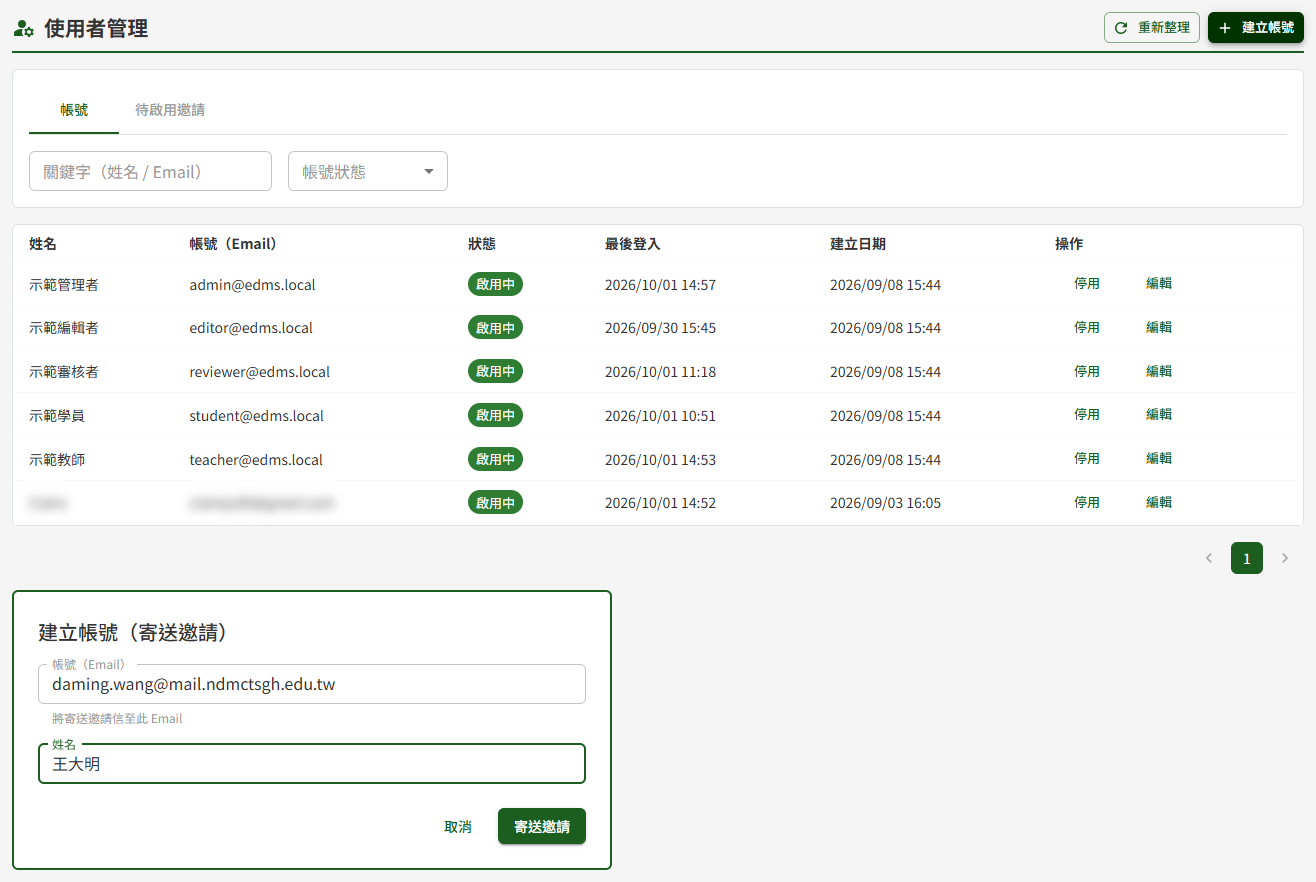
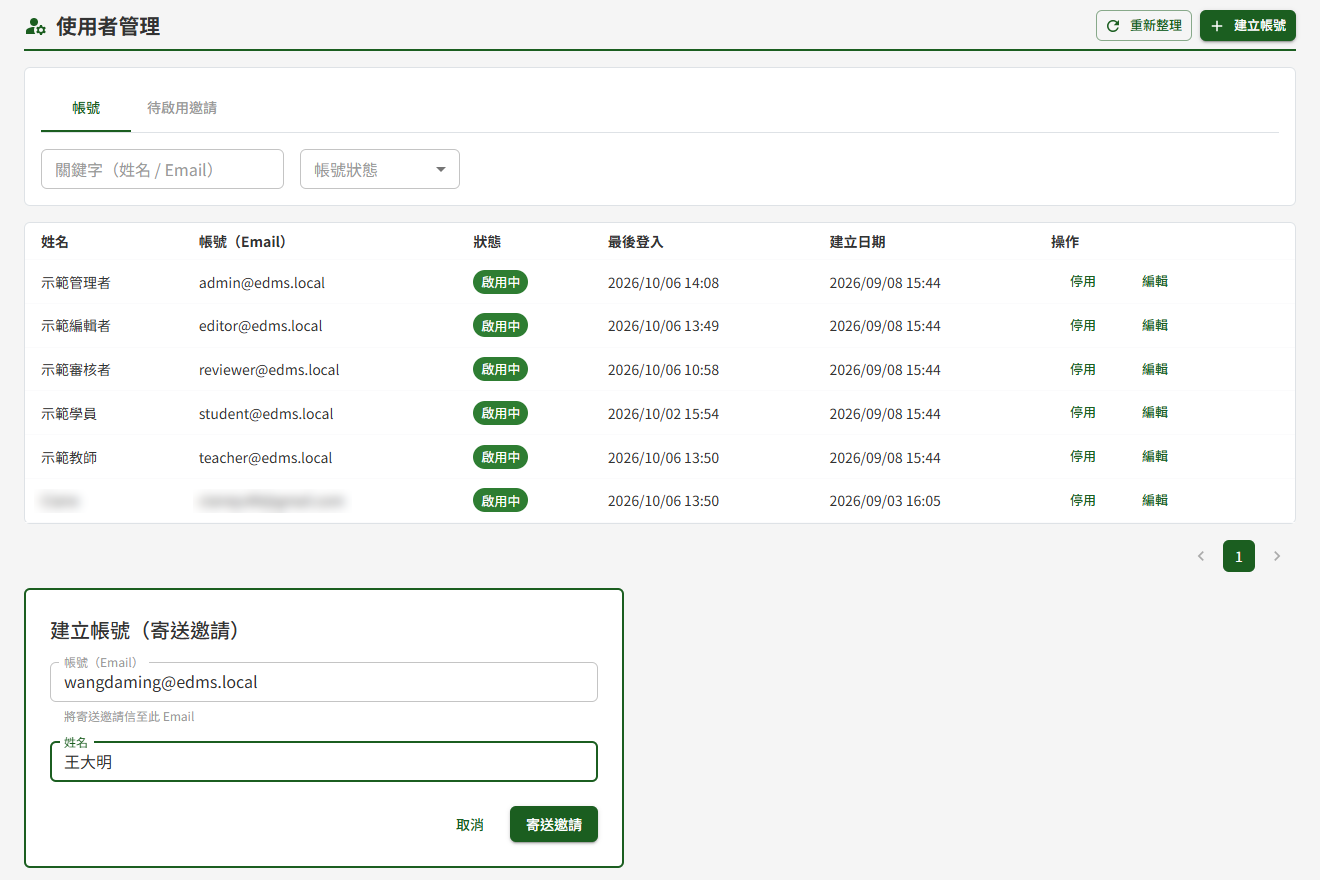
docs(manuals): DP01／DP02 依現行行為修正並遮罩個資，DP06 改台灣時間並接圖
- DP01：補救方式改為由其他管理者啟用；補閒置停用帳號啟用後須盡快登入；邀請效期寫明參數名稱
- DP02：刪除畫面上做不到的「撤除最後一名管理者」；補新增標籤即時加入課程；移除進入路徑之權限擋板
- DP06：依 #524 改為台灣時間；補「確定儲存」確認視窗；接圖 4 張
- 圖片：dp02 四張遮罩「最後異動」之真實姓名；dp01-03／04 改用示範網域重拍
- 重產 DP 測試報告

diff --git a/docs/manuals/_tests/DP-平台管理模組.md b/docs/manuals/_tests/DP-平台管理模組.md
@@ -11,11 +11,11 @@
 | 可收信的 Email | 一個**尚未在系統中使用過**且測試當下收得到信的 Email，用於建立帳號與完成啟用（第 5～9 項）；收不到信則整段啟用流程驗不到 |
 | 已存在之帳號 | 一個已完成啟用的帳號，用於驗證 Email 重複（第 10 項）與編輯姓名（第 23、24 項） |
 | 已停用之帳號 | 一個狀態為「已停用」的帳號，用於驗證啟用（第 18 項）。可先以第 16 項停用一個帳號取得 |
-| 鎖定中之帳號 | 以某帳號連續輸入錯誤密碼至被鎖定（失敗次數上限為系統參數，可於 DP03 系統參數與清單維護查得），用於驗證解鎖（第 21 項） |
-| 已逾期之邀請 | 一筆邀請狀態為「已逾期」者（第 15 項）。邀請效期為系統參數，建議測試前於 DP03 暫時調短效期取得，測畢再調回 |
+| 鎖定中之帳號 | 以某帳號連續輸入錯誤密碼至被鎖定（失敗次數上限為系統參數，可於 DP03 系統參數與清單維護查得），用於驗證解鎖（第 21 項）。第 22 項需等鎖定期滿，鎖定時間為 DP03 的「帳號鎖定時間（分鐘）」，預設 30 分鐘 |
+| 已逾期之邀請 | 一筆邀請狀態為「已逾期」者（第 15 項）。邀請效期即 DP03 的「密碼重設連結有效時間（分鐘）」，預設 30 分鐘，寄出邀請後等候逾時即可取得（調短此參數會一併影響忘記密碼連結，不建議） |
 | 跨模組驗證用環境 | 受測使用者需在教育訓練或文件管理至少有一個可操作的頁面，用於驗證停用後即時失效（第 17 項） |
 | 兩個瀏覽器或兩台裝置 | 第 17 項需一邊以管理者停用、另一邊以該使用者操作，確認是否立即被拒 |
-| 僅剩一名管理者之模組 | 第 20 項需停用某模組的最後一名管理者。**測畢請立即按「啟用」恢復**，否則該模組將無人可做管理作業、須由資訊人員自資料庫處理 |
+| 因閒置被停用之帳號 | 第 19 項需一個由每日排程因閒置自動停用的帳號：測試前一日於 DP03 將「閒置停用天數（天）」暫調為 1，取一個已超過 1 天未登入的帳號，待次日每日排程（台灣時間 08:00）將其停用；測畢將參數調回原值（預設 90） |
 
 ### 測試項目清單
 
@@ -39,8 +39,8 @@
 | 16 | 對一個啟用中的帳號按「停用」並確認，該列狀態應變為「已停用」，按鈕改為「啟用」。 |
 | 17 | 承上，該使用者於教育訓練或文件管理的下一個操作應即被拒絕，不需等待其登出。 |
 | 18 | 對已停用的帳號按「啟用」，狀態應恢復為「啟用中」，該使用者可再次登入。 |
-| 19 | 對目前登入中的本人帳號按「停用」，應被擋下並提示無法停用自己的帳號。 |
-| 20 | 停用某模組的最後一名管理者，系統應允許（不檢核至少保留一名管理者）；測畢立即按「啟用」恢復。 |
+| 19 | 對因閒置被排程停用之帳號按「啟用」但不登入，次日每日排程執行後，該帳號應再次變為已停用。 |
+| 20 | 對目前登入中的本人帳號按「停用」，應被擋下並提示無法停用自己的帳號。 |
 | 21 | 對鎖定中的帳號按「解鎖」，狀態應恢復為「啟用中」，該使用者可立即以正確密碼登入。 |
 | 22 | 鎖定期滿後重新查詢該帳號，狀態應已自動恢復為「啟用中」，不需人工解鎖。 |
 | 23 | 對某帳號按「編輯」，「帳號（Email）」欄位應為唯讀不可輸入，僅「姓名」可修改。 |
@@ -54,12 +54,12 @@
 |---|---|
 | 管理者帳號（兩模組） | 同時具教育訓練與文件管理管理者身分，本作業絕大多數項目以此帳號操作；兩個分頁都要看得到才測得到第 1 項 |
 | 管理者帳號（單一模組） | 只具其中一個模組管理者身分者，用於驗證分頁只列出可管理的模組（第 1 項）；兩個帳號都是雙模組管理者時這項驗不到 |
-| 受指派的一般使用者 | 一個啟用中、角色可自由增減的帳號，用於第 4～9 項。請勿使用測試者本人的帳號，否則會與第 6 項「不可取消本人角色」的檢核混淆 |
-| 已停用之帳號 | 一個狀態為「已停用」且**已持有至少一個角色**的帳號（第 4 項要驗「連撤除方向也不可操作」，沒有既有角色就驗不到）。可於 DP01 使用者管理停用取得 |
+| 受指派的一般使用者 | 一個啟用中、具學員角色、角色可自由增減的帳號，用於第 4、6、7、12 項。請勿使用測試者本人的帳號，否則會與第 5 項「不可取消本人角色」的檢核混淆 |
+| 已停用之帳號 | 一個狀態為「已停用」且**已持有至少一個角色**的帳號（第 3 項要驗「已持有的角色同樣無法取消」，沒有既有角色就驗不到）。可於 DP01 使用者管理停用取得 |
 | 可見對象選項 | DP03 系統參數與清單維護中，文件管理的「單位」與「職位」各至少 2 項且為啟用中 |
 | 受訓單位標籤選項 | DP03 中教育訓練的受訓單位標籤至少 2 項且為啟用中 |
-| 僅剩一名管理者之模組 | 第 8 項需撤除某模組最後一名管理者。**測畢請立即指派回去**，否則該模組將無人可指派權限、須由資訊人員自資料庫恢復 |
-| 可登入的受測帳號 | 第 9 項需以被指派者的身分登入確認功能已開通，故需知道該帳號的密碼或可重設 |
+| 掛標籤之已發布課程 | 一門已發布、未關閉且掛有受訓單位標籤甲之課程；受指派的一般使用者尚未加入該課程、也未持有標籤甲（第 12 項）。該使用者不得為該課程的建立者 |
+| 可登入的受測帳號 | 第 7、12 項需以被指派者的身分登入確認，故需知道該帳號的密碼或可重設 |
 
 ### 測試項目清單
 
@@ -67,18 +67,16 @@
 |---|---|
 | 1 | 以僅具單一模組管理者身分的帳號進入本作業，應只看到該模組的分頁；具兩模組管理者身分者應看到兩個分頁。 |
 | 2 | 於「關鍵字（姓名 / Email）」輸入後清單不應自動更新，按「查詢」或 Enter 後才套用篩選。 |
-| 3 | 教育訓練分頁的角色欄為「管理者／教師／學員」，文件管理分頁為「管理者／編輯者／審核者／閱覽者」。 |
-| 4 | 已停用帳號該列應標示「已停用」，其角色核取方塊與「編輯」皆不可操作——**連已持有的角色也不可撤除**。 |
-| 5 | 勾選某使用者的一個角色，畫面應顯示「角色 / 標籤已更新並即時生效」，且無須另按儲存；重新查詢後該勾選仍在。 |
-| 6 | 對自己目前登入的帳號取消管理者角色，應被擋下並提示無法取消自己的管理者角色。 |
-| 7 | 對同一使用者同時勾選兩個以上角色，應全部可並存（權限取聯集）。 |
-| 8 | 撤除某模組最後一名管理者的管理者角色，系統應允許（不檢核至少保留一名）；測畢立即指派回去。 |
-| 9 | 為某使用者勾選文件管理的閱覽者後，以該帳號登入應可進入文件管理的功能，不需重新指派或等待。 |
-| 10 | 於文件管理分頁按「編輯」，新增一組「單位 + 職位」並儲存，該列的可見對象欄應顯示該組配對。 |
-| 11 | 新增一列但只選「單位」未選「職位」，視窗應先提示未選完的列將被略過，儲存後該列不應出現在可見對象欄。 |
-| 12 | 移除一組既有的可見對象並儲存，該組應自欄位消失，其餘組別不受影響。 |
-| 13 | 於教育訓練分頁按「編輯」，勾選兩個受訓單位標籤並儲存，該列的受訓單位標籤欄應同時顯示兩者。 |
-| 14 | 教育訓練的群組編輯視窗應為可複選的標籤清單，不出現「單位」「職位」兩個下拉（兩個模組的授權形狀不同）。 |
+| 3 | 於文件管理分頁查詢已停用帳號，該列應標示「已停用」，其角色核取方塊與「編輯」皆不可操作——**連已持有的角色也不可取消**。 |
+| 4 | 勾選某使用者的一個角色，畫面應顯示「角色 / 標籤已更新並即時生效」，且無須另按儲存；重新查詢後該勾選仍在。 |
+| 5 | 對自己目前登入的帳號取消管理者角色，應被擋下並提示無法取消自己的管理者角色。 |
+| 6 | 對同一使用者同時勾選兩個以上角色，應全部可並存（權限取聯集）。 |
+| 7 | 為某使用者勾選文件管理的閱覽者後，以該帳號登入應可進入文件管理的功能，不需重新指派或等待。 |
+| 8 | 於文件管理分頁按「編輯」，新增一組「單位 + 職位」並儲存，該列的可見對象欄應顯示該組配對。 |
+| 9 | 新增一列但只選「單位」未選「職位」，視窗應先提示未選完的列將被略過，儲存後該列不應出現在可見對象欄。 |
+| 10 | 移除一組既有的可見對象並儲存，該組應自欄位消失，其餘組別不受影響。 |
+| 11 | 於教育訓練分頁按「編輯」，勾選兩個受訓單位標籤並儲存，該列的受訓單位標籤欄應同時顯示兩者。 |
+| 12 | 為受指派的一般使用者新增受訓單位標籤甲並儲存，該員應立即出現在掛標籤甲之已發布課程的學員清單中，並收到一封列出該課程的通知信。 |
 
 ## DP06 排程作業總覽
 
@@ -89,21 +87,20 @@
 | 管理者帳號 | 具教育訓練或文件管理任一模組之管理者角色即可（本作業為兩模組共用項） |
 | 已有執行紀錄之排程 | 至少一支排程已執行過數次（第 5 項要看歷程）。系統內建的每日排程通常已有紀錄，可先於清單的「最近執行」欄確認非空白 |
 | 可供調整的排程 | 挑一支**調整後影響最小**的排程做第 6～9 項。這些項目會真的改變該作業的執行時間與啟停，**每項測畢請立即改回原值**；建議事先記下原本的 Cron 表達式與啟用狀態 |
-| 時區對照 | 第 3 項需比對 UTC 與本地時間，測試前先確認本地時區為 UTC+8 |
 
 ### 測試項目清單
 
 | 項次 | 測試內容 |
 |---|---|
 | 1 | 進入本作業，清單應列出各排程的 Job、說明、所屬模組、執行時點、Cron、狀態、最近執行、下次執行。 |
-| 2 | 「執行時點」欄應為 Cron 換算出的中文時點並標示 UTC，例如 Cron 為 `0 8 * * *` 時顯示「每日 08:00 UTC」。 |
-| 3 | 同一列的「執行時點」（UTC）與「下次執行」（本地時間）應相差八小時，兩者皆非空白。 |
+| 2 | 「執行時點（台灣時間）」欄應為 Cron 換算出的中文時點，例如 Cron 為 `0 8 * * *` 時顯示「每日 08:00」。 |
+| 3 | Cron 為 `0 8 * * *` 之排程，「下次執行」應為某日 08:00，與「執行時點」所示時刻一致（Cron 以台灣時間解讀）。 |
 | 4 | 按某列的「執行歷程」圖示，應開啟視窗列出歷次執行的起訖時間與結果；從未執行過者顯示「尚無排程執行紀錄」。 |
 | 5 | 執行歷程中若有失敗或跳過的紀錄，右欄應列出其原因；同時段其他排程的紀錄應仍為成功（單一失敗不影響其他）。 |
 | 6 | 按「編輯」修改 Cron 表達式並儲存，清單的「執行時點」與「下次執行」應立即依新值更新，不需重新啟動或重新登入。 |
 | 7 | 於 Cron 的週幾欄填 `0` 並儲存，「執行時點」應顯示為**每週一**（週幾自週一起算，非一般慣用的週日為 0）。 |
 | 8 | 於 Cron 填入不合法的表達式（例如週幾填 `7`）並儲存，應被擋下並提示 cron 表達式不合法。 |
-| 9 | 將某排程的「啟用」關閉並儲存，該列狀態應變為停用且「下次執行」欄變空白；重新啟用後恢復顯示。 |
+| 9 | 將某排程的「啟用」關閉並儲存，該列狀態應變為停用且「下次執行」欄顯示「—」；重新啟用後恢復顯示。 |
 | 10 | 編輯卡片的「Job ID」欄應為灰色不可輸入，僅作業名稱、說明、Cron 表達式與啟用可修改。 |
 | 11 | 修改「說明」並儲存，清單該列的說明欄應更新；「執行時點」欄不受影響（兩者各自獨立）。 |
 | 12 | 清單每列的操作欄應只有「執行歷程」與「編輯」兩個入口，無任何手動補跑或立即執行的按鈕。 |

diff --git a/docs/manuals/dp/DP01-使用者管理.md b/docs/manuals/dp/DP01-使用者管理.md
@@ -10,7 +10,7 @@
 
 本作業涵蓋帳號的建立、查詢、停用與啟用、解鎖，以及姓名的維護；建立帳號採**寄送邀請信**的方式，由使用者自行設定密碼後啟用。
 
-角色與權限的指派不在本作業，於 DP02 權限管理處理。帳號啟用時系統先給予教育訓練的學員角色，其餘角色由管理者另行指派。
+角色與權限的指派於 DP02 權限管理處理。帳號啟用時系統先給予教育訓練的學員角色，其餘角色由管理者另行指派。
 
 ### 進入路徑
 
@@ -25,7 +25,7 @@
 | 頁籤 | 內容 |
 |---|---|
 | 帳號 | 已啟用使用的帳號，含已停用與鎖定中者 |
-| 待啟用邀請 | 已寄出邀請信、使用者尚未完成設定密碼者；頁籤上的數字為目前筆數，沒有待啟用邀請時不顯示數字 |
+| 待啟用邀請 | 已寄出邀請信、使用者尚未完成設定密碼者；切到本頁籤後，頁籤上顯示目前筆數 |
 
 「帳號」頁籤的清單逐列顯示姓名、帳號（Email）、狀態、最後登入、建立日期與操作按鈕。
 
@@ -35,7 +35,7 @@
 
 篩選列有「關鍵字（姓名 / Email）」與「帳號狀態」兩項。關鍵字輸入後**自動查詢**，不需另外按查詢鈕；帳號狀態可選全部、啟用中、已停用、已鎖定。
 
-> 注意：切換頁籤或變更篩選條件時，若正開著建立或編輯表單，該表單會一併收起，表單中尚未儲存的內容不會保留。
+> 注意：切換頁籤或變更篩選條件時，若正開著建立或編輯表單，該表單會一併收起，表單中尚未儲存的內容會被清除。
 
 **三種帳號狀態的差別**
 
@@ -66,9 +66,9 @@
 
 ![按「寄送邀請」後跳出確認視窗，複述即將寄出的 Email](../_images/dp/dp01-04.png)
 
-> 重要：**建立帳號時不設定密碼**，密碼由使用者自己設。送出後系統寄出一封邀請信，使用者點信中連結、於效期內設定密碼，帳號才正式建立並可登入。邀請信的效期由系統參數設定，於 DP03 系統參數與清單維護調整。
+> 重要：**密碼由使用者經邀請信連結自行設定**。送出後系統寄出一封邀請信，使用者點信中連結、於效期內設定密碼，帳號才正式建立並可登入。邀請信連結的效期即 DP03 系統參數與清單維護的「密碼重設連結有效時間（分鐘）」，預設 30 分鐘，與忘記密碼連結共用此設定。
 
-因此，剛送出邀請時**該筆出現在「待啟用邀請」頁籤、而不是「帳號」頁籤**；使用者完成設定密碼後才會轉到「帳號」頁籤、狀態為啟用中。
+因此，剛送出邀請時**該筆出現在「待啟用邀請」頁籤、而不是「帳號」頁籤**；使用者完成設定密碼後才會轉到「帳號」頁籤、狀態為啟用中，之後以該 Email 與自行設定的密碼直接登入使用。
 
 使用者完成啟用時，系統會給予教育訓練的學員角色；其他角色（例如教師、文件管理的審核者）於 DP02 權限管理指派。
 
@@ -104,11 +104,13 @@ Email 重複時會被擋下，兩種情況的處理方式不同：
 
 > 重要：停用**立即於兩個模組同時生效**。該使用者若正在線上，下一個動作就會被拒絕，不需等待登出。
 
-已停用的帳號，該列的按鈕會變為「啟用」，按下即恢復可登入（不另跳確認視窗）。帳號因閒置 90 天被系統自動停用者，同樣在此啟用。
+已停用的帳號，該列的按鈕會變為「啟用」，按下即恢復可登入。帳號因閒置 90 天被系統自動停用者，同樣在此啟用。
+
+> 重要：啟用因閒置被停用的帳號後，請通知該使用者**盡快登入一次**。系統以最後登入時間判定閒置，啟用本身不會更新此時間；使用者若在次日的每日排程前仍未登入，帳號會再次被自動停用。
 
 無法停用自己正在使用的帳號——這是避免管理者把自己鎖在系統外的保護。需要停用自己的帳號時，請其他管理者操作。
 
-> 注意：系統**不檢核「至少保留一名管理者」**。若某模組的管理者全被停用，該模組即無人可做管理作業，須由資訊人員自資料庫恢復。停用管理者帳號前請先確認該模組仍有其他管理者。
+> 注意：停用某模組唯一的管理者帳號後，該模組暫時無人可做管理作業，直到其他管理者於本作業按「啟用」恢復。停用管理者帳號前請先確認該模組仍有其他管理者。
 
 ### 解鎖帳號
 
@@ -124,7 +126,7 @@ Email 重複時會被擋下，兩種情況的處理方式不同：
 
 修改後按「儲存」，確認視窗核對無誤後按「確定儲存」。
 
-使用者要變更自己的 Email 時，請本人至 DP10 個人資料維護辦理——該流程需同時驗證新舊兩個信箱，管理者無法代為修改。
+使用者要變更自己的 Email 時，請本人至 DP10 個人資料維護辦理——該流程需同時驗證新舊兩個信箱，由本人完成。
 
 ## 常見訊息與處置
 
@@ -132,7 +134,7 @@ Email 重複時會被擋下，兩種情況的處理方式不同：
 
 | 訊息 | 處置 |
 |---|---|
-| 「此 Email 已被使用」 | 該 Email 已是現有帳號。於「帳號」頁籤查詢，確認是否只需啟用或解鎖 |
+| 「此 Email 已被使用」 | 該 Email 已是現有帳號。於「帳號」頁籤查詢，確認是否只需啟用或解鎖；兩個頁籤都查不到時，表示對方已自行註冊、尚未完成 Email 驗證，請其收信完成驗證 |
 | 「此 Email 已有待啟用邀請，請改用重寄」 | 到「待啟用邀請」頁籤對該筆按「重寄邀請」，不需重新建立 |
 | 「無法停用或鎖定自己的帳號」 | 此為保護機制，避免管理者將自身擋在系統外。需停用該帳號時請其他管理者操作 |
 | 「此邀請剛重寄過，請於約 N 分鐘後再試」 | 同一筆邀請的重寄間隔約 10 分鐘，依訊息所示時間後再試 |

diff --git a/docs/manuals/dp/DP06-排程作業總覽.md b/docs/manuals/dp/DP06-排程作業總覽.md
@@ -29,19 +29,19 @@
 | Job | 作業代碼與名稱。代碼由系統給定、不可更改 |
 | 說明 | 這支作業在做什麼。可以修改，但**不要寫執行時間** |
 | 所屬模組 | 該作業屬於哪個模組，不可更改 |
-| 執行時點 | 由目前的 Cron 表達式**當場換算**而來，時刻一律為 **UTC** |
+| 執行時點（台灣時間） | 由目前的 Cron 表達式**當場換算**而來 |
 | Cron | 實際控制觸發時間的設定值 |
 | 狀態 | 啟用或停用；停用者不會被觸發 |
 | 最近執行 | 上一次實際執行的時間 |
-| 下次執行 | 預計下一次觸發的時間，為**本地時間**；停用的作業此欄為空 |
+| 下次執行 | 預計下一次觸發的時間；停用的作業此欄顯示「—」 |
 
-**同一列的兩個時間相差八小時是正常的**
-
-「執行時點」標的是 UTC，「下次執行」則是本地時間，兩者相差八小時。之所以不把執行時點也換算成本地時間，是因為編輯時填的 Cron 表達式本身就是 UTC——若此欄偷偷換算，會出現「編輯框寫 10、旁邊顯示 18:00」的矛盾。要看本地幾點執行，請看「下次執行」。
+Cron 表達式、「執行時點」與「下次執行」三者皆為**台灣時間**，編輯框寫 18 即表示下午六點。
 
 > 注意：Cron 表達式若寫成區間、間隔或多值（例如每三小時一次），「執行時點」欄無法換算成中文，會直接顯示原始的表達式。這是刻意的——顯示一個猜錯的時點，比顯示看不懂的設定值更危險。
 
 每列最右側的「操作」欄有兩個圖示按鈕：**執行歷程**與**編輯**。
+
+![進入排程作業總覽，逐列列出各排程的說明、執行時點、啟停狀態與最近、下次執行時間](../_images/dp/dp06-01.png)
 
 ### 檢視執行歷程
 
@@ -55,6 +55,8 @@
 
 從未執行過的作業，視窗內顯示「尚無排程執行紀錄」。
 
+![按「執行歷程」圖示，視窗列出該排程歷次執行的起訖時間與結果](../_images/dp/dp06-02.png)
+
 > 重要：看到失敗紀錄時，請聯繫該作業所屬模組的負責人處理——重跑屬該模組的範圍，本頁負責的是呈現結果。
 
 ### 調整執行時點
@@ -62,18 +64,21 @@
 1. 按該列的「編輯」圖示，清單下方展開編輯卡片
 2. 於「Cron 表達式」填入新的設定值
 3. 按「儲存」
+4. 確認視窗按「確定儲存」
+
+![按「編輯」圖示展開編輯卡片，Job ID 為灰色不可修改，說明與 Cron 欄下方各有填寫提示](../_images/dp/dp06-03.png)
 
 變更**即時生效**，不需要重新啟動系統。
 
-Cron 表達式由五個欄位組成，依序為分、時、日、月、週幾，以空白分隔。例如 `0 8 * * *` 表示每日 08:00（UTC）。
+Cron 表達式由五個欄位組成，依序為分、時、日、月、週幾，以空白分隔。例如 `0 8 * * *` 表示每日台灣時間 08:00。
 
-> 重要：**週幾從週一起算**——`0` 是週一、`1` 是週二，依此類推到 `6` 是週日，且 `7` 不被接受。這與一般常見的寫法（週日為 0）**相差一天**，照常見寫法填會讓作業在錯誤的日子執行。填完後請以清單上的「執行時點」欄複核，該欄會把設定值換算成中文，例如顯示「每週一 10:00 UTC」。
-
-> 注意：時刻一律以 UTC 填寫。要讓作業在本地時間下午六點執行，請填 10 時。
+> 重要：**週幾從週一起算**——`0` 是週一、`1` 是週二，依此類推到 `6` 是週日，且 `7` 不被接受。這與一般常見的寫法（週日為 0）**相差一天**，照常見寫法填會讓作業在錯誤的日子執行。填完後請以清單上的「執行時點」欄複核，該欄會把設定值換算成中文，例如顯示「每週一 10:00」。
 
 ### 暫停與恢復排程
 
-於編輯卡片切換「啟用」開關後儲存即可。停用後該作業不再被觸發，清單的「狀態」欄顯示為停用、「下次執行」欄留空；重新啟用後即恢復，同樣即時生效。
+於編輯卡片切換「啟用」開關，按「儲存」並於確認視窗按「確定儲存」即可。停用後該作業不再被觸發，清單的「狀態」欄顯示為停用、「下次執行」欄顯示「—」；重新啟用後即恢復，同樣即時生效。
+
+![停用的排程「狀態」顯示停用、「下次執行」顯示「—」，其餘啟用中的排程照常列出下次執行時間](../_images/dp/dp06-04.png)
 
 ### 修改作業名稱與說明
 
@@ -97,7 +102,7 @@ Cron 表達式由五個欄位組成，依序為分、時、日、月、週幾，
 
 | 情況 | 說明 |
 |---|---|
-| 清單中某作業的「下次執行」為空 | 該作業目前為停用狀態，不會被觸發 |
+| 清單中某作業的「下次執行」顯示「—」 | 該作業目前為停用狀態，不會被觸發 |
 | 「執行時點」欄顯示的是一串設定值而非中文 | 該表達式為區間或多值寫法，無法換算為單一時點，屬正常 |
 | 調整時點後「下次執行」沒有立刻改變 | 變更即時生效，重新整理頁面即可看到依新設定算出的時間 |
 | 排程在預期的日子沒有執行 | 先確認「執行時點」欄換算出的星期是否為預期的那天——週幾的編號從週一起算，照常見寫法填會差一天 |

diff --git a/docs/manuals/dp/DP02-權限管理.md b/docs/manuals/dp/DP02-權限管理.md
@@ -6,7 +6,7 @@
 
 本作業供**各模組的管理者**指派該模組的角色與授權。
 
-畫面上方的分頁即為模組，但**只會出現具管理者身分的模組**——教育訓練的管理者看得到「教育訓練（ET）」分頁、文件管理的管理者看得到「文件管理（DM）」分頁，兩者兼具者兩個分頁都看得到。看不到的那個模組，其角色與授權無從在此檢視或修改。
+畫面上方的分頁即為模組，但**只會出現具管理者身分的模組**——教育訓練的管理者看得到「教育訓練（ET）」分頁、文件管理的管理者看得到「文件管理（DM）」分頁，兩者兼具者兩個分頁都看得到。各模組的角色與授權，由該模組的管理者於自己的分頁維護。
 
 每個模組可指派的內容如下：
 
@@ -19,13 +19,11 @@
 
 > 重要：教育訓練的「學員」角色在**帳號啟用當下由系統自動授予**（見 DP01 使用者管理），不需在此勾選。其餘角色一律由本作業開通——這是教育訓練教師、文件管理四種角色的**唯一開通路徑**。
 
-帳號本身的建立、停用、啟用與解鎖不在本作業，於 DP01 使用者管理處理。本作業只決定「誰配什麼角色、誰配什麼授權」。
+帳號本身的建立、停用、啟用與解鎖於 DP01 使用者管理處理；本作業決定「誰配什麼角色、誰配什麼授權」。
 
 ### 進入路徑
 
 側邊選單「系統管理者後台 → DP02 權限管理」。
-
-不具任何模組管理者身分者，進入後畫面顯示「您目前無可管理的模組權限。」，沒有分頁與清單。
 
 ## 操作說明
 
@@ -33,7 +31,7 @@
 
 畫面自上而下為標題列、模組分頁、關鍵字查詢，其下為使用者清單，最下方為分頁列。
 
-清單逐列顯示帳號（Email）、姓名、各角色的核取方塊、該模組的授權欄，以及最後異動。
+清單逐列顯示帳號、姓名、各角色的核取方塊、該模組的授權欄，以及最後異動。
 
 ![切到「教育訓練（ET）」分頁，清單列出各使用者的三種角色與其受訓單位標籤](../_images/dp/dp02-01.png)
 
@@ -55,7 +53,7 @@
 
 帳號已停用或鎖定中時，該列會變淡並標示「已停用」或「已鎖定」，角色核取方塊與「編輯」皆為停用狀態。
 
-> 重要：**連「撤除既有角色」也不行**，不是只有加權被擋。需要為這類帳號降權時，順序是：先於 DP01 使用者管理把帳號啟用或解鎖 → 回本作業撤除角色 → 再回 DP01 停用。
+> 重要：**已持有的角色同樣無法取消**。需要為這類帳號降權時，順序是：先於 DP01 使用者管理把帳號啟用或解鎖 → 回本作業撤除角色 → 再回 DP01 停用。
 
 ![已停用的帳號整列變淡並標示「已停用」，連已勾選的角色也呈灰色無法取消](../_images/dp/dp02-03.png)
 
@@ -63,11 +61,9 @@
 
 於該使用者所在列，直接勾選或取消角色的核取方塊即可，**勾選的當下就送出、不需另外儲存**，畫面並顯示「角色 / 標籤已更新並即時生效」。
 
-同一個人可以同時具備多個角色，權限取其聯集。角色的種類是固定的，畫面上沒有新增角色種類的功能。
+同一個人可以同時具備多個角色，權限取其聯集。
 
 > 重要：**無法取消自己的管理者角色**。這是避免管理者把自己擋在管理功能外的保護；需要撤除時請另一位該模組的管理者操作。
-
-> 注意：系統**不檢核「至少保留一名管理者」**。某模組的管理者若全被撤除，該模組即無人可指派權限，須由資訊人員自資料庫恢復。撤除管理者角色前請先確認該模組仍有其他管理者。
 
 ### 設定可見對象（文件管理）
 
@@ -92,11 +88,13 @@
 
 於「受訓單位標籤」欄按「編輯」，開啟設定視窗，勾選該使用者所屬的受訓單位後按「儲存」。
 
-與文件管理的可見對象不同，受訓單位標籤**沒有配對關係**，是一層的清單，可複選。
+受訓單位標籤為**單層清單、可複選**，與文件管理可見對象的「單位 + 職位」配對不同。
 
 ![教育訓練的設定視窗為可複選的標籤清單，沒有單位與職位的配對](../_images/dp/dp02-06.png)
 
-標籤決定課程發布時要自動邀請哪些人：課程掛了某個標籤，發布時該標籤對應的學員就會被自動加入（見 ET05 課程建立與編輯）。
+標籤決定課程發布時要自動邀請哪些人：課程掛了某個標籤，發布時該標籤對應的學員就會被自動加入，課程的建立者本人除外（見 ET05 課程建立與編輯）。
+
+> 重要：為已具學員角色者**新增**標籤並儲存時，系統會**立即**把他加入所有掛該標籤、已發布且未關閉的課程，並寄一封列出這些課程的通知信。移除標籤時，他已加入的課程維持不變。
 
 可選的標籤清單同樣於 DP03 系統參數與清單維護管理。
 
